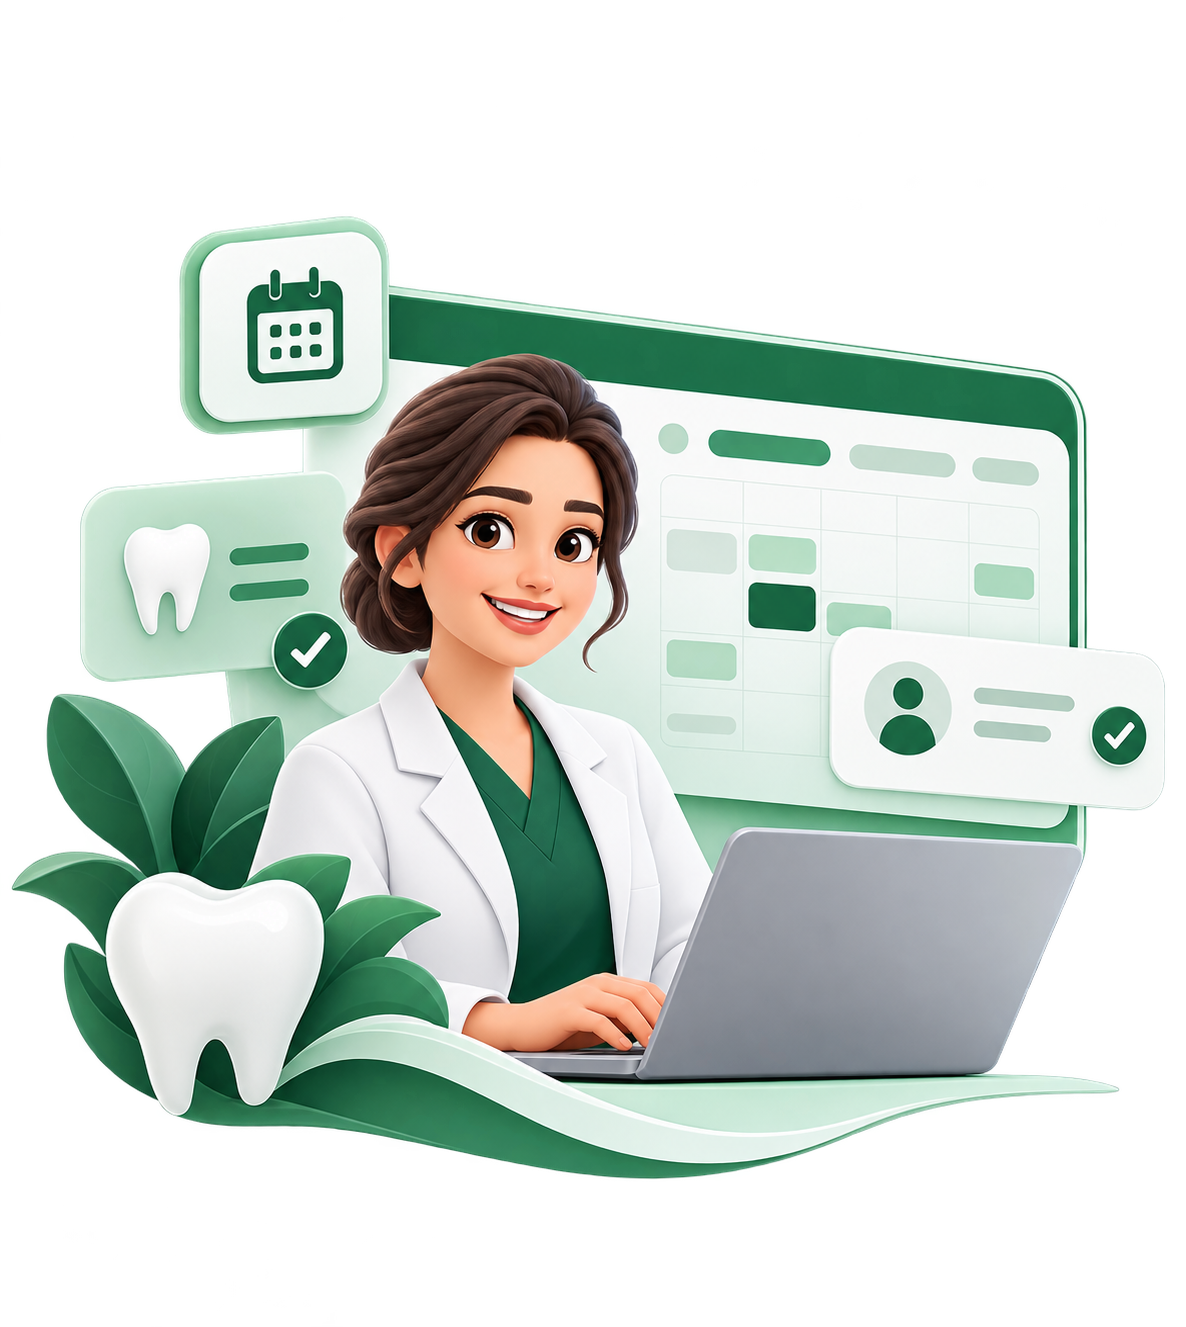
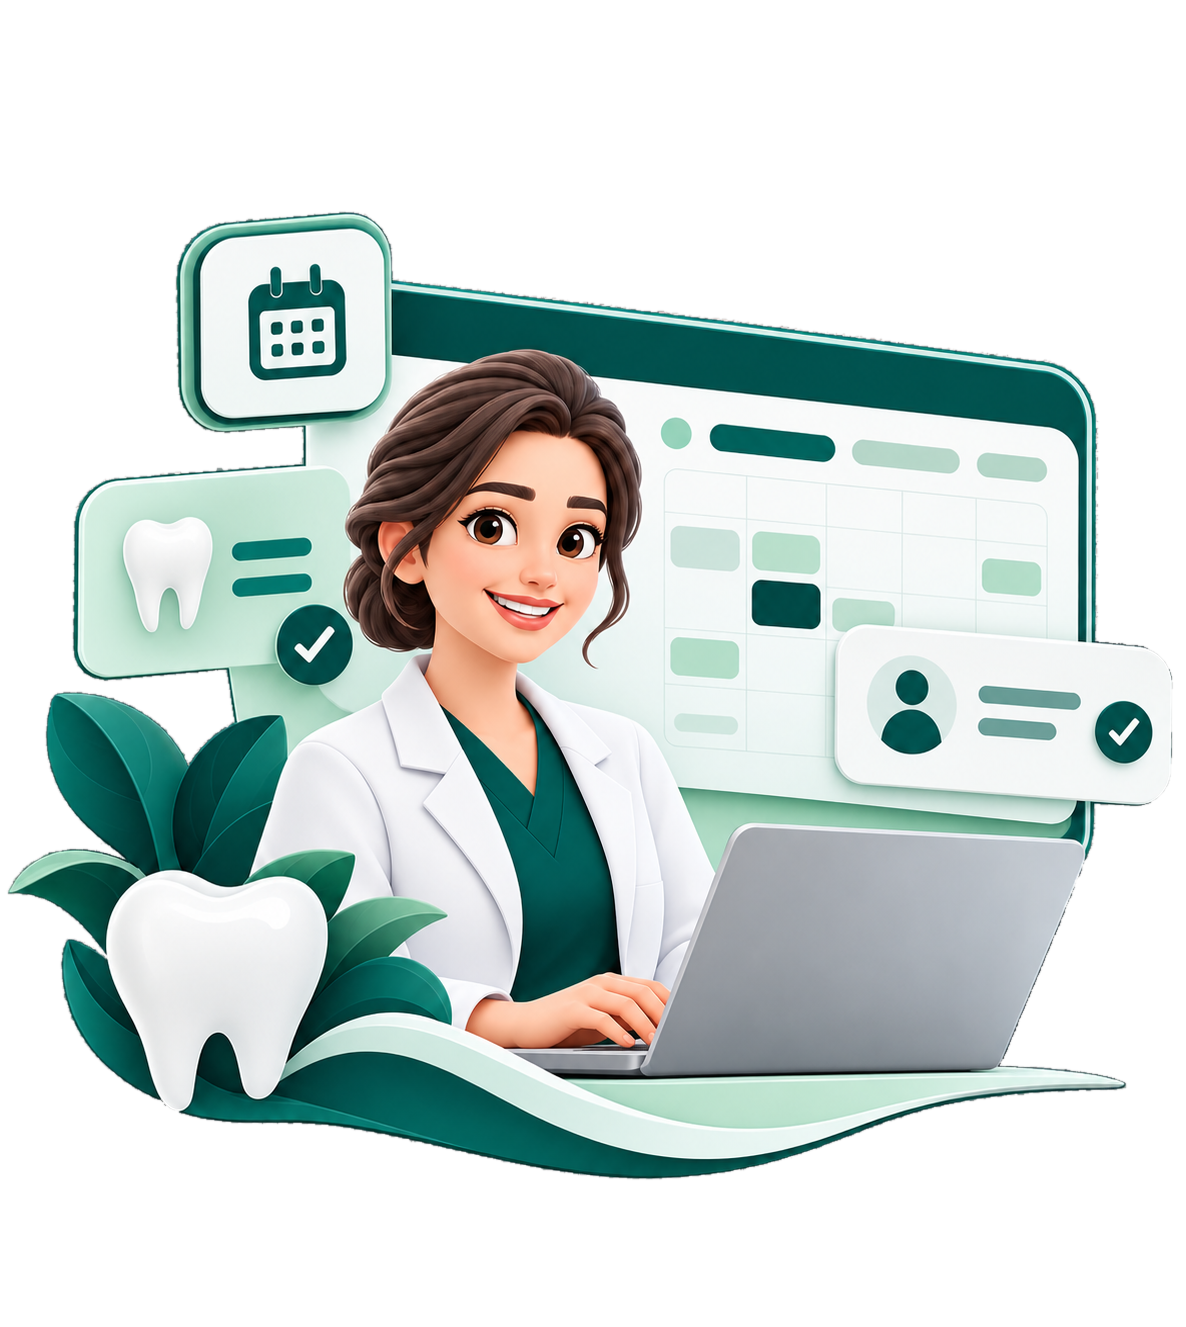
feat(styles): update background and color variables for improved theme consistency

diff --git a/src/app/globals.css b/src/app/globals.css
@@ -48,7 +48,7 @@
   --er-ease: cubic-bezier(0.25, 1, 0.5, 1);
 
   /* shadcn semantic tokens (Eatrrite) */
-  --background: #f6f6f6;
+  --background: #F1F6F1;
   --foreground: var(--er-color-text);
   --card: var(--er-color-white);
   --card-foreground: var(--er-color-text);
@@ -56,12 +56,12 @@
   --popover-foreground: var(--er-color-ink);
   --primary: var(--er-color-primary);
   --primary-foreground: var(--er-color-white);
-  --secondary: #eeeeee;
+  --secondary: #F1F6F1;
   --secondary-foreground: var(--er-color-primary);
-  --muted: #eeeeee;
+  --muted: #F1F6F1;
   --muted-foreground: var(--er-color-muted);
   /* Accent stays Deccan Dentics (undisturbed) */
-  --accent: #d9efdf;
+  --accent: #F1F6F1;
   --accent-foreground: #205c3b;
   --destructive: var(--er-color-alert-text);
   --destructive-foreground: var(--er-color-white);
